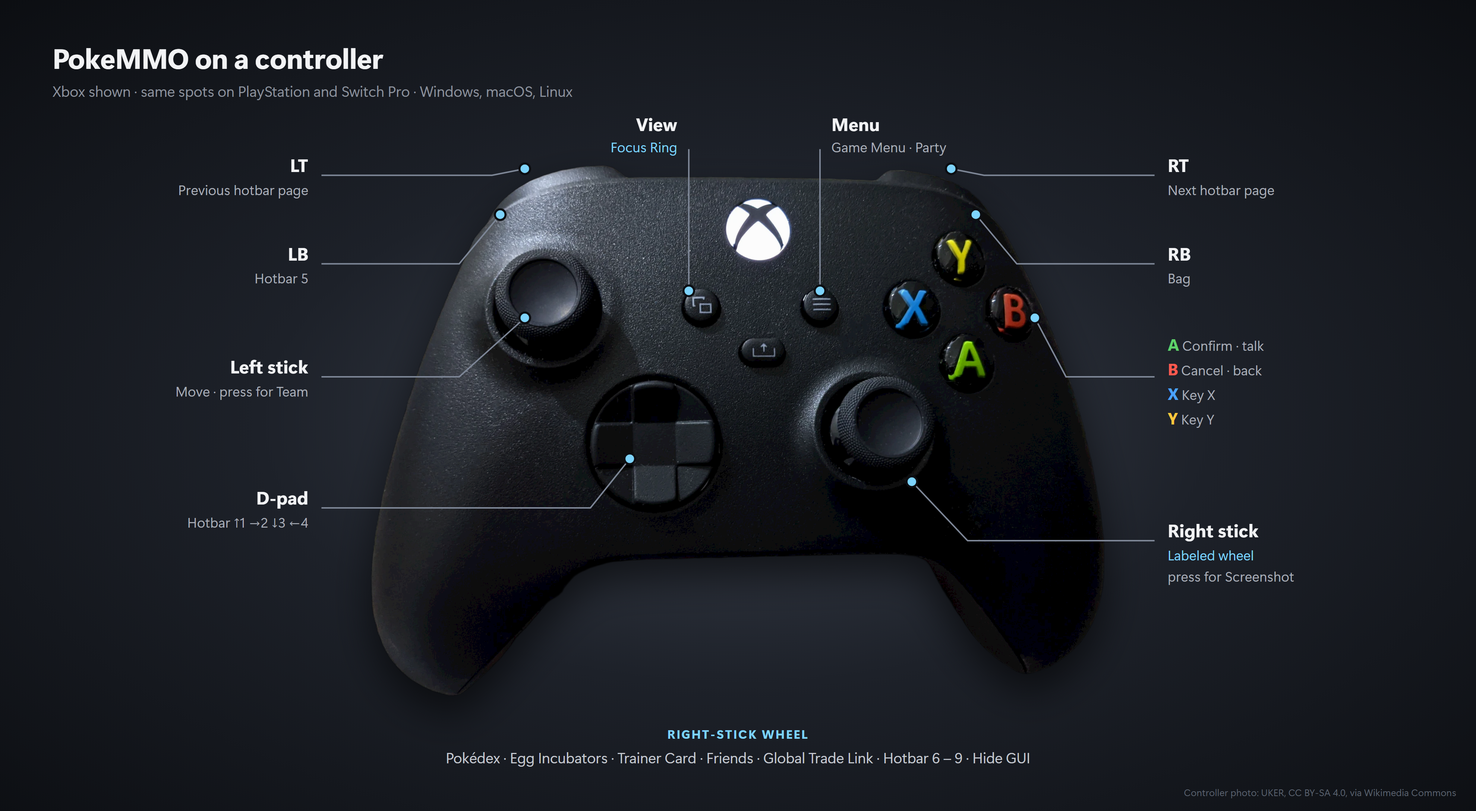
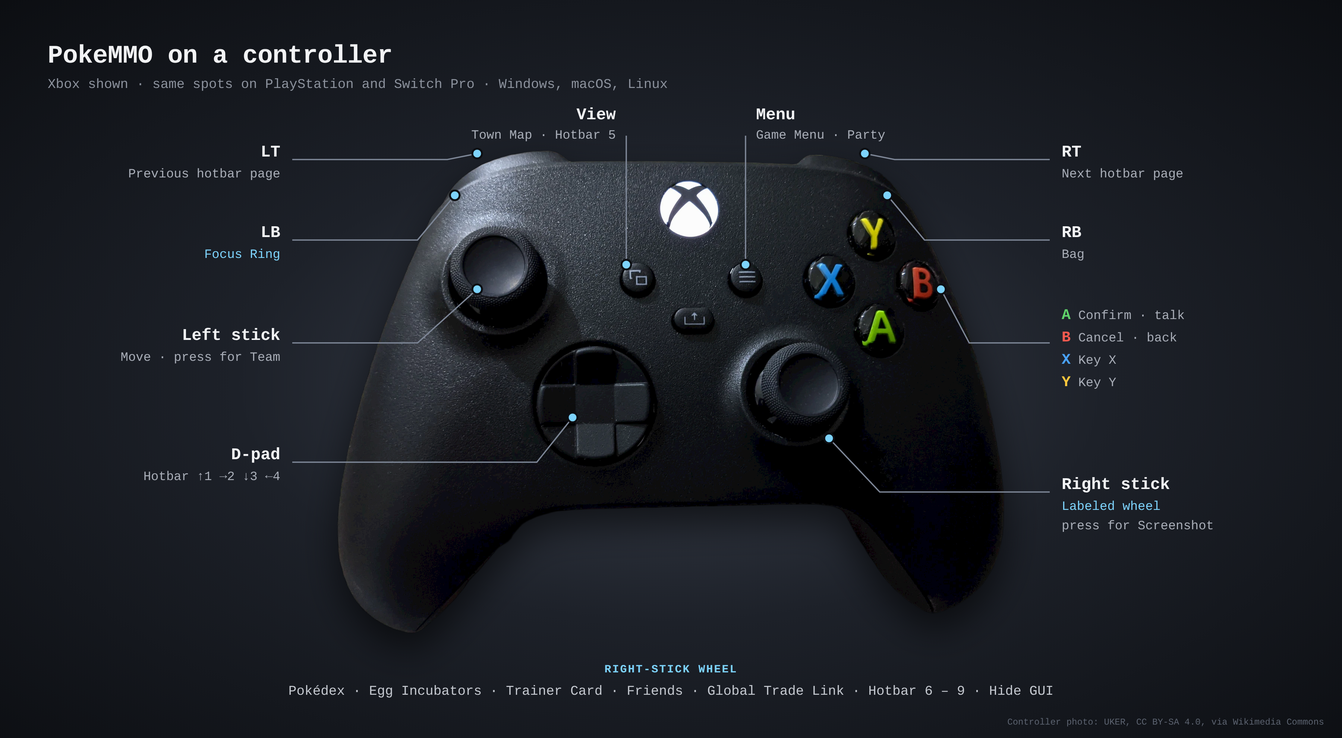
View opens the map: Hotbar 5 moves to View, the Focus Ring to LB
PokeMMO has no controller action for the map, so View presses Hotbar 5 and the
Town Map lives in that hotbar slot. The Focus Ring takes LB, which held Hotbar 5,
so no input loses its job. Maps written by earlier versions are still recognised,
so an update replaces them and uninstall removes them.

diff --git a/tests/test_map_button.py b/tests/test_map_button.py
@@ -1,0 +1,80 @@
+"""The View button opens the map (it presses Hotbar 5, where the player keeps the Town Map);
+the Focus Ring sits on LB. An install written by an earlier version, with the Focus Ring on
+View, is replaced on update and removed on uninstall like any other of this project's maps.
+"""
+import json, unittest
+
+from test_setup import Base, diff
+import common, apply_native, layout as L
+
+VIEW, LB = 4, 9
+
+
+class MapButton(Base):
+    def test_default_view_is_the_map_slot_and_lb_is_the_focus_ring(self):
+        binds = L.default_layout()["binds"]
+        self.assertEqual(binds["KEY_HOTBAR_5"], {"button": VIEW})
+        self.assertEqual(binds["KEY_RING_FOCUS"], {"button": LB})
+        # the shipped native layout and the layout model agree
+        self.assertEqual(apply_native.LAYOUT["KEY_HOTBAR_5"], ("BUTTON", VIEW))
+        self.assertEqual(apply_native.LAYOUT["KEY_RING_FOCUS"], ("BUTTON", LB))
+
+    def test_every_pad_name_gets_it_and_no_input_is_shared(self):
+        sb = self.make()
+        sb.setup()
+        text = sb.props.read_text(encoding="utf-8")
+        for entry in apply_native.split_entries(
+                next(l for l in text.splitlines() if l.startswith(common.MAP_KEY + "=")).split("=", 1)[1]).values():
+            if not apply_native.is_ours(entry):
+                continue
+            parts = [p for p in entry.split(";")[1:] if p]
+            self.assertIn("KEY_HOTBAR_5,BUTTON,4", parts)
+            self.assertIn("KEY_RING_FOCUS,BUTTON,9", parts)
+            inputs = [p.split(",", 1)[1] for p in parts]
+            self.assertEqual(len(inputs), len(set(inputs)), "one input does one action")
+
+    def test_an_install_from_before_is_updated_and_uninstall_is_exact(self):
+        sb = self.make()
+        before = sb.snapshot()
+        sb.setup()
+        # make the file look like v1.1: Focus Ring on View, Hotbar 5 on LB, an older version
+        old = apply_native.LEGACY_LAYOUT
+        text = sb.props.read_text(encoding="utf-8")
+        new_entries = apply_native.split_entries(
+            next(l for l in text.splitlines() if l.startswith(common.MAP_KEY + "=")).split("=", 1)[1])
+        for name, entry in new_entries.items():
+            if apply_native.is_ours(entry):
+                text = text.replace(entry, entry.replace("KEY_HOTBAR_5,BUTTON,4", "KEY_HOTBAR_5,BUTTON,9")
+                                    .replace("KEY_RING_FOCUS,BUTTON,9", "KEY_RING_FOCUS,BUTTON,4"))
+        sb.props.write_text(text, encoding="utf-8")
+        st_file = sb.pokemmo / "config" / common.STATE_NAME
+        st = json.loads(st_file.read_text())
+        st["version"] = "1.0.5"
+        st_file.write_text(json.dumps(st))
+        self.assertIn("KEY_RING_FOCUS,BUTTON,4", sb.props.read_text(encoding="utf-8"))
+        r = sb.setup()
+        self.assertIn("Updated from v1.0.5", r.stdout)
+        out = sb.props.read_text(encoding="utf-8")
+        self.assertNotIn("KEY_RING_FOCUS,BUTTON,4", out)
+        self.assertIn("KEY_HOTBAR_5,BUTTON,4", out)
+        sb.setup("--uninstall")
+        self.assertEqual(diff(before, sb.snapshot()), [])
+
+    def test_uninstall_removes_the_old_layout_even_after_the_file_was_edited(self):
+        sb = self.make()
+        before = sb.snapshot()
+        sb.setup()
+        text = sb.props.read_text(encoding="utf-8")
+        entries = apply_native.split_entries(
+            next(l for l in text.splitlines() if l.startswith(common.MAP_KEY + "=")).split("=", 1)[1])
+        for entry in entries.values():
+            if apply_native.is_ours(entry):
+                text = text.replace(entry, entry.replace("KEY_HOTBAR_5,BUTTON,4", "KEY_HOTBAR_5,BUTTON,9")
+                                    .replace("KEY_RING_FOCUS,BUTTON,9", "KEY_RING_FOCUS,BUTTON,4"))
+        sb.props.write_text(text + "client.ui.theme=dark\n", encoding="utf-8")   # the player changed another line too
+        sb.setup("--uninstall")
+        self.assertNotIn("KEY_RING_FOCUS", sb.props.read_text(encoding="utf-8"))
+
+
+if __name__ == "__main__":
+    unittest.main()

diff --git a/tools/apply_native.py b/tools/apply_native.py
@@ -53,14 +53,14 @@ LAYOUT = {
     "KEY_LEFT": AX(0, False), "KEY_RIGHT": AX(0, True),
     "KEY_A": B(0), "KEY_B": B(1), "KEY_X": B(2), "KEY_Y": B(3),
     # menus
-    "KEY_RING_FOCUS": B(4),      # View/Share/Minus: Focus Ring, reaches every hotbar slot, party, windows
+    "KEY_RING_FOCUS": B(9),      # LB/L1/L: Focus Ring, reaches every hotbar slot, party, windows
     "KEY_GAMEMENU": B(6),        # Menu/Options/Plus: Game Menu (Party, Pokedex, Settings...)
     "KEY_INVENTORY": B(10),      # RB/R1/R: Bag
     "KEY_NEXT": AX(5, True),     # RT/R2/ZR: next hotbar page
     "KEY_PREVIOUS": AX(4, True), # LT/L2/ZL: previous hotbar page
     # hotbar
     "KEY_HOTBAR_1": B(11), "KEY_HOTBAR_2": B(14), "KEY_HOTBAR_3": B(12), "KEY_HOTBAR_4": B(13),
-    "KEY_HOTBAR_5": B(9),        # LB/L1/L
+    "KEY_HOTBAR_5": B(4),        # View/Share/Minus: Hotbar 5, kept for the Town Map (always opens the map)
     # right stick: left free for the Steam wheel (tools/install_wheel.py)
     "KEY_TEAM": B(7),            # L3: Team
     "KEY_SCREENSHOT": B(8),      # R3: Screenshot
@@ -122,7 +122,10 @@ def layout_sets(binds):
             frozenset(_parts(_nintendo_face_actions_only(binds)))}
 
 
-OUR_LAYOUTS = layout_sets(LAYOUT)
+# v1.0.0 to v1.1.1 put the Focus Ring on View and Hotbar 5 on LB. Still recognised as this
+# project's, so a rerun replaces it and uninstall removes it.
+LEGACY_LAYOUT = dict(LAYOUT, KEY_RING_FOCUS=B(4), KEY_HOTBAR_5=B(9))
+OUR_LAYOUTS = layout_sets(LAYOUT) | layout_sets(LEGACY_LAYOUT)
 
 
 def is_ours(entry, extra=frozenset()):

diff --git a/tools/layout.py b/tools/layout.py
@@ -28,7 +28,7 @@ ACTIONS = {
     "KEY_RING_FOCUS": "Focus Ring", "KEY_GAMEMENU": "Game Menu", "KEY_INVENTORY": "Bag",
     "KEY_NEXT": "Next hotbar page", "KEY_PREVIOUS": "Previous hotbar page",
     "KEY_HOTBAR_1": "Hotbar 1", "KEY_HOTBAR_2": "Hotbar 2", "KEY_HOTBAR_3": "Hotbar 3",
-    "KEY_HOTBAR_4": "Hotbar 4", "KEY_HOTBAR_5": "Hotbar 5",
+    "KEY_HOTBAR_4": "Hotbar 4", "KEY_HOTBAR_5": "Hotbar 5 (Town Map)",
     "KEY_TEAM": "Team", "KEY_SCREENSHOT": "Screenshot",
 }
 
@@ -65,10 +65,10 @@ DEFAULT_BINDS = {
     "KEY_UP": {"axis": 1, "positive": False}, "KEY_DOWN": {"axis": 1, "positive": True},
     "KEY_LEFT": {"axis": 0, "positive": False}, "KEY_RIGHT": {"axis": 0, "positive": True},
     "KEY_A": {"button": 0}, "KEY_B": {"button": 1}, "KEY_X": {"button": 2}, "KEY_Y": {"button": 3},
-    "KEY_RING_FOCUS": {"button": 4}, "KEY_GAMEMENU": {"button": 6}, "KEY_INVENTORY": {"button": 10},
+    "KEY_RING_FOCUS": {"button": 9}, "KEY_GAMEMENU": {"button": 6}, "KEY_INVENTORY": {"button": 10},
     "KEY_NEXT": {"axis": 5, "positive": True}, "KEY_PREVIOUS": {"axis": 4, "positive": True},
     "KEY_HOTBAR_1": {"button": 11}, "KEY_HOTBAR_2": {"button": 14}, "KEY_HOTBAR_3": {"button": 12},
-    "KEY_HOTBAR_4": {"button": 13}, "KEY_HOTBAR_5": {"button": 9},
+    "KEY_HOTBAR_4": {"button": 13}, "KEY_HOTBAR_5": {"button": 4},
     "KEY_TEAM": {"button": 7}, "KEY_SCREENSHOT": {"button": 8},
 }
 DEFAULT_WHEEL = list(WHEEL_ACTIONS)

diff --git a/tests/test_ui.py b/tests/test_ui.py
@@ -107,7 +107,7 @@ class UI(Base):
         import xml.etree.ElementTree as ET
         self.start(self.make())
         lay = L.default_layout()
-        lay["binds"]["KEY_INVENTORY"], lay["binds"]["KEY_HOTBAR_5"] = ({"button": 9}, {"button": 10})
+        lay["binds"]["KEY_INVENTORY"], lay["binds"]["KEY_RING_FOCUS"] = ({"button": 9}, {"button": 10})
         del lay["binds"]["KEY_TEAM"]
         for fam, word in (("xbox", "LB"), ("playstation", "Cross"), ("switch", "ZR")):
             code, r = self.call("POST", "/api/diagram", {"layout": lay, "pad": fam})
@@ -219,7 +219,7 @@ class UI(Base):
         self.start(sb)
         before = sb.snapshot()
         lay = L.default_layout()
-        lay["binds"]["KEY_INVENTORY"], lay["binds"]["KEY_HOTBAR_5"] = ({"button": 9}, {"button": 10})
+        lay["binds"]["KEY_INVENTORY"], lay["binds"]["KEY_RING_FOCUS"] = ({"button": 9}, {"button": 10})
         r = self.call("POST", "/api/apply", {"layout": lay})[1]
         self.assertTrue(r["ok"], r)
         self.assertIn("KEY_INVENTORY,BUTTON,9", sb.props.read_text(encoding="utf-8"))

diff --git a/tests/test_custom_layout.py b/tests/test_custom_layout.py
@@ -30,7 +30,7 @@ def clash():
 def custom():
     lay = L.default_layout()
     lay["binds"]["KEY_INVENTORY"] = {"button": 9}   # Bag on LB
-    lay["binds"]["KEY_HOTBAR_5"] = {"button": 10}   # Hotbar 5 on RB
+    lay["binds"]["KEY_RING_FOCUS"] = {"button": 10}   # Focus Ring on RB
     lay["wheel"][0], lay["wheel"][1] = lay["wheel"][1], lay["wheel"][0]
     return lay
 
@@ -50,7 +50,7 @@ class CustomLayout(Base):
         self.assertIn("Xbox Series X Controller;", text)
         entry = [e for e in text.split("|") if e.startswith("Xbox Series X Controller;")][0]
         self.assertIn("KEY_INVENTORY,BUTTON,9", entry)
-        self.assertIn("KEY_HOTBAR_5,BUTTON,10", entry)
+        self.assertIn("KEY_RING_FOCUS,BUTTON,10", entry)
         vdf = (sb.cfg / "pokemmo" / "controller_xboxone.vdf").read_text()
         self.assertLess(vdf.index("key_press I, Egg Incubators"), vdf.index("key_press N, Pokedex"))  # slices swapped
         installed = sb.snapshot()

diff --git a/tests/test_layout.py b/tests/test_layout.py
@@ -34,7 +34,7 @@ class Model(unittest.TestCase):
     def test_move_a_button(self):
         lay = default()
         lay["binds"]["KEY_INVENTORY"] = {"button": 9}   # LB; was RB
-        lay["binds"]["KEY_HOTBAR_5"] = {"button": 10}   # swap
+        lay["binds"]["KEY_RING_FOCUS"] = {"button": 10}   # swap
         L.validate(lay)
         self.assertEqual(L.native_binds(lay)["KEY_INVENTORY"], ("BUTTON", 9))
 

diff --git a/README.md b/README.md
@@ -154,10 +154,10 @@ change nothing; PokeMMO may stay open). From a clone, `python tools/setup.py` do
 | A | ✕ Cross | A | Confirm / talk |
 | B | ○ Circle | B | Cancel / back |
 | X / Y | □ Square / △ Triangle | X / Y | The game's Key X / Key Y |
-| **View** (⧉) | **Create / Share** | **−** | **Focus Ring:** select anything on screen |
+| **View** (⧉) | **Create / Share** | **−** | **Town Map** (Hotbar 5): opens the map, see [The map button](#the-map-button) |
 | Menu (≡) | Options | + | Game Menu (Party, Settings…) |
 | RB | R1 | R | Bag |
-| LB | L1 | L | Hotbar 5 |
+| LB | L1 | L | **Focus Ring:** select anything on screen |
 | D-pad ↑ → ↓ ← | D-pad | D-pad | Hotbar 1 / 2 / 3 / 4 |
 | RT / LT | R2 / L2 | ZR / ZL | Next / previous hotbar page |
 | Right stick | Right stick | Right stick | **Wheel** (see below) |
@@ -168,11 +168,22 @@ On a Switch Pro controller, the printed **A** confirms and **B** cancels, the
 same as on a Switch. Prefer the Xbox positions (bottom button confirms)? Run
 `apply_native.py --switch-positional`.
 
+### The map button
+
+PokeMMO has no controller action called "map", so **View** presses **Hotbar 5**,
+and the map opens from there. Do this once in game: open your Bag, find the
+**Town Map** and put it in hotbar slot 5. The hotbar has pages (RT / LT turn
+them), and each page has its own slot 5, so put the Town Map in slot 5 of every
+page you use and View opens the map on all of them.
+
+Not yet played on real hardware: if your Town Map will not go on the hotbar, tell
+us in an issue, with your PokeMMO version.
+
 ### The Focus Ring
 
-Tap **View** and a highlight jumps onto the hotbar, your party or an open
+Tap **LB** and a highlight jumps onto the hotbar, your party or an open
 window. Move it with the stick, press **A** to use what's highlighted, and press
-**B** or **View** to leave. Every hotbar slot on every page can be reached this way,
+**B** or **LB** to leave. Every hotbar slot on every page can be reached this way,
 not only the ones with their own button.
 
 ### The wheel
@@ -193,7 +204,7 @@ F12 = Hide GUI) and sends exactly one key press when you let go.
 
 | I want to… | Do this |
 |---|---|
-| Use any hotbar item (bike, rod, Sweet Scent…) | D-pad / LB for slots 1-5, wheel for 6-9, or **View** → pick → **A** |
+| Use any hotbar item (bike, rod, Sweet Scent…) | D-pad for slots 1-4, **View** for slot 5 (the Town Map), wheel for 6-9, or **LB** → pick → **A** |
 | Switch hotbar page | RT / LT |
 | Open my party / reorder it | Menu → Party, pick a Pokémon with the stick, **A** for its options |
 | Open the bag / give an item | RB, pick the item, **A** → Give |

diff --git a/CHANGELOG.md b/CHANGELOG.md
@@ -2,6 +2,13 @@
 
 ## Unreleased
 
+- Changed: **View** (Create on PlayStation, − on Switch Pro) now opens the map. PokeMMO has
+  no controller action for the map, so View presses Hotbar 5: put the Town Map in
+  hotbar slot 5 (of each page you use) once and View always opens it. The Focus Ring
+  moved to **LB** (L1, L), which used to be Hotbar 5, so nothing else is lost. A rerun
+  of the installer moves your binds; a layout you made in the remap screen is left as it is.
+  The button maps in `docs/` and the remap screen show the new default.
+
 - New: `--follow` keeps the wheel sized while the game's resolution changes mid-play
   (4K, 1080p, 1440p and back, in any order; fullscreen, borderless or windowed;
   other monitor or display scaling). It rewrites only the wheel layout files once a
